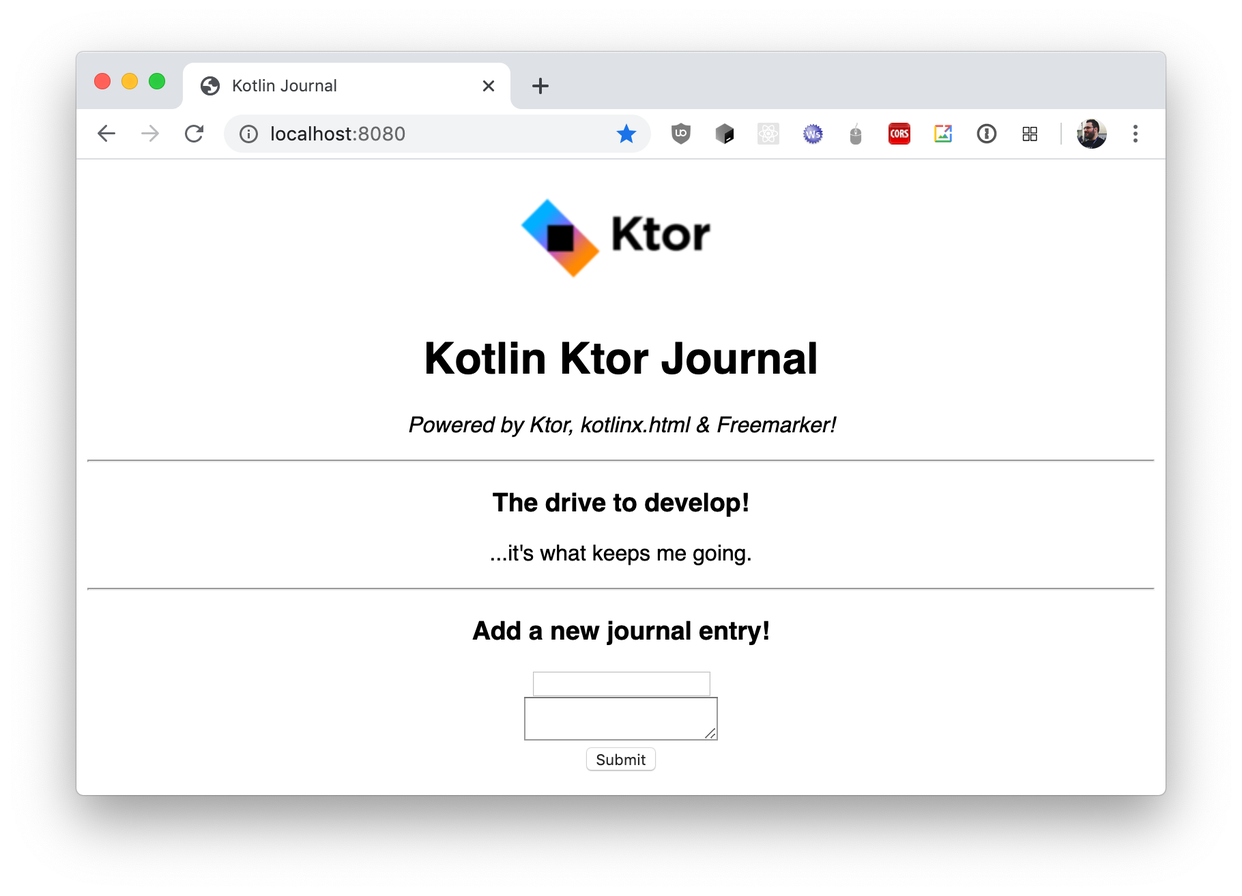
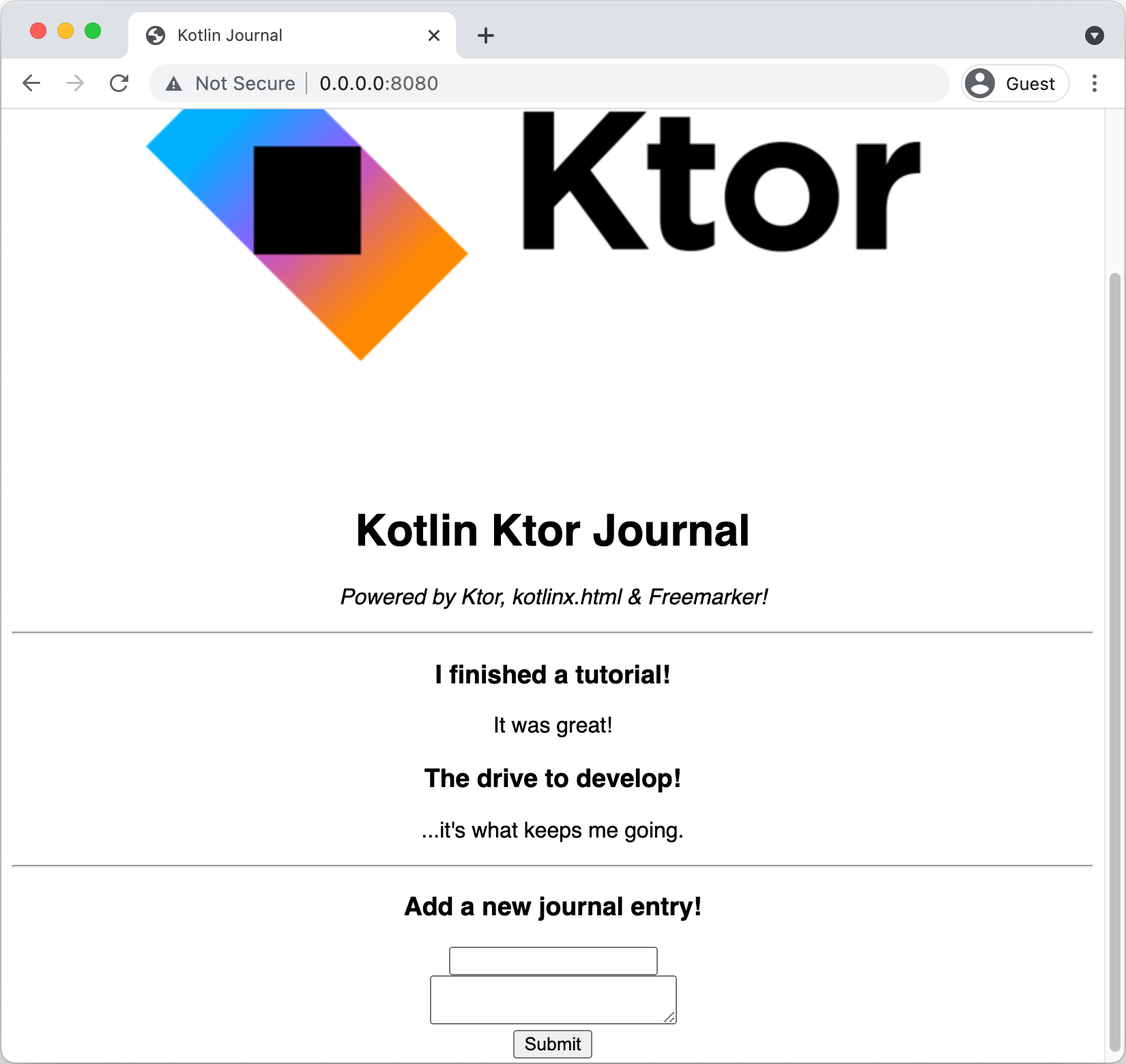
KTOR-2835 update website topic

Changed region(s): [[0.0, 0.0, 1.0, 1.0], [0.34, 0.3744, 0.68, 0.4368]]

diff --git a/topics/creating_interactive_website.md b/topics/creating_interactive_website.md
@@ -8,11 +8,11 @@ Used plugins: Routing, Freemarker, HTML DSL
 </p>
 </microformat>
 
-In this tutorial we're going to create an interactive website. Using the different plugins and integrations provided by Ktor, we will see how to host static content like images and HTML pages. We will see how supported HTML templating engines like [Freemarker](freemarker.md) make it easy to control how data from our application is rendered in the browser. By using [kotlinx.html](html_dsl.md), we'll learn about a domain-specific language that allows us to mix Kotlin code and markup directly, allowing us to write our site's display logic in pure Kotlin.
+In this tutorial, we're going to create an interactive website. Using the different plugins and integrations provided by Ktor, we will see how to host static content like images and HTML pages. We will see how supported HTML templating engines like [Freemarker](freemarker.md) make it easy to control how data from our application is rendered in the browser. By using [kotlinx.html](html_dsl.md), we'll learn about a domain-specific language that allows us to mix Kotlin code and markup directly, allowing us to write our site's display logic in pure Kotlin.
 
-The goal of this tutorial is to write a minimal journal app. We'll start by seeing how Ktor can serve static files and pages, and then move on to dynamically rendering Kotlin objects representing blog entries in a nicely formatted fashion, making use of our template engine. To make things interactive, we will add the ability to submit new entries to our journal directly from the browser – leaving us with a nice way to temporarily store and view our thoughts, for example our opinion on working through this tutorial:
+The goal of this tutorial is to write a minimal journal app. We'll start by seeing how Ktor can serve static files and pages, and then move on to dynamically rendering Kotlin objects representing blog entries in a nicely formatted fashion, making use of our template engine. To make things interactive, we will add the ability to submit new entries to our journal directly from the browser – leaving us with a nice way to temporarily store and view our thoughts, for example, our opinion on working through this tutorial:
 
-![](ktor_journal.png){animated="true" width="434"}
+![](ktor_journal.png){animated="true" width="706"}
 
 ## Prerequisites {id="prerequisites"}
 <include src="lib.xml" include-id="plugin_prerequisites"/>
@@ -86,7 +86,7 @@ The [application.conf](#configurations) configures the entry point of our applic
 ```
 {src="snippets/tutorial-website/src/main/kotlin/com/example/Application.kt" lines="6-11"}
 
-This module in turn calls the following extension functions:
+This module, in turn, calls the following extension functions:
 
 * `configureRouting` is a function defined in `plugins/Routing.kt`, which is currently doesn't do anything:
    ```kotlin
@@ -97,70 +97,56 @@ This module in turn calls the following extension functions:
    ```
   We'll define the routes for our journal in the next chapters.
 
-* `configureTemplating` is a function defined in `plugins/Templating.kt`, which installs and configures the `FreeMarker` plugin:
+* `configureTemplating` is a function defined in `plugins/Templating.kt`, which installs and configures the `Freemarker` plugin:
    ```kotlin
    ```
   {src="snippets/tutorial-website/src/main/kotlin/com/example/plugins/Templating.kt" lines="8-10,12-13"}
 
 
 
-## Static files and pages
+## Static files and pages {id="static_files"}
 
-Before we dive into making a _dynamic_ application, let's start by doing something a bit easier, but probably just as important – let's get Ktor to serve some *static* files.
+Before we dive into making a _dynamic_ application, let's start by doing something a bit easier, but probably just as important – let's get Ktor to serve some *static* files. In the context of our journal, there are a number of things that we probably want to serve as static files – one example being a header image (a logo that identifies our site). 
 
-In the context of our journal, there are a number of things that we probably want to serve as static files – one example being a header image (a logo that identifies our site). Luckily for us, the template repository already has a PNG file included which we can use: `ktor.png` inside the folder `src/main/resources/files`:
+1. Create the `files` folder inside `src/main/resources`.
+2. Download the [ktor_logo.png](https://github.com/ktorio/ktor-documentation/blob/main/codeSnippets/snippets/tutorial-website/src/main/resources/files/ktor_logo.png) image file and add it to the created `files` folder.
+3. To serve static content, we can use a specific routing function already built into Ktor named [static](Serving_Static_Content.md). The function takes two parameters: the route under which the static content should be made available, and a lambda where we can define the location from where the content should be served. In the `plugins/Routing.kt` file, let's change the implementation for `Application.configureRouting()` to look like this:
 
-![](ktor_image_location.png){width="561"}
+   ```kotlin
+   ```
+   {src="snippets/tutorial-website/src/main/kotlin/com/example/plugins/Routing.kt" lines="14-18,48-49"}
+   
+   This instructs Ktor that everything under the URL `/static` should be served using the `files` directory inside `resources`.
 
-For serving static content, we can use a specific routing function already built in to Ktor named [static](Serving_Static_Content.md). The function takes two parameters: the route under which the static content should be made available, and a lambda where we can define the location from where the content should be served. In the file called `Application.kt`, let's change the implementation for `Application.module()` to look like this:
+### Run the application {id="run_app"}
 
-```kotlin
-fun Application.module() {
-    routing {
-        static("/static") {
-            resources("files")
-        }
-    }
-}
-```
+Let's *see* if our application is performing as expected. We can run our application by pressing the **Run** button next to `fun main(...)` in our `Application.kt`: 
 
-This instructs Ktor that everything under the URL `/static` should be served using the `files` directory inside `resources`.
+![Run Server](run-app.png){width="706"}
 
-### Running our application for the first time
+IntelliJ IDEA will start the application, and after a few seconds, we should see the confirmation that the app is running:
 
-_Seeing is believing_ – so lets *see* if our application is performing as expected! We can run our application by pressing the green "play" button next to `fun main(...)` in our `Application.kt`. IntelliJ IDEA will start the application, and after a few seconds, we should see the confirmation that the app is running:
-
-```
+```Bash
 [main] INFO  Application - Responding at http://0.0.0.0:8080
 ```
 
-Let's open [`http://localhost:8080/static/ktor.png`](http://localhost:8080/static/ktor.png) in a browser. We see that Ktor serves the static file:
+Let's open [`http://localhost:8080/static/ktor_logo.png`](http://localhost:8080/static/ktor_logo.png) in a browser. We see that Ktor serves the static file:
 
-![](ktor_logo_in_browser.png)
+![](ktor_logo_in_browser.png){width="706"}
 
-Of course, we are not limited to images – HTML files, or CSS and JavaScript would work just as well. We can take advantage of this fact to add a small "About me" page as a first real part of our journal application – a static page that can contain some information about us, this project, or whatever else we might fancy.
+### Add HTML page {id="html_page"}
+
+Of course, we are not limited to images – HTML files, or CSS and JavaScript would work just as well. We can take advantage of this fact to add a small "About me" page as the first real part of our journal application – a static page that can contain some information about us, this project, or whatever else we might fancy.
 
 To do so, let's create a new file inside `src/main/resources/files/` called `aboutme.html`, and fill it with the following contents:
 
 ```html
-<!DOCTYPE html>
-<html lang="en">
-<head>
-    <title>Kotlin Journal</title>
-</head>
-<body style="text-align: center; font-family: sans-serif">
-<img src="/static/ktor.png" alt="ktor logo">
-<h1>About me</h1>
-<p>Welcome to my static page!</p>
-<p>Feel free to take a look around.</p>
-<p>Or go to the <a href="/">main page</a>.</p>
-</body>
-</html>
 ```
+{src="snippets/tutorial-website/src/main/resources/files/aboutme.html"}
 
 If we re-run the application and navigate to [`http://localhost:8080/static/aboutme.html`](http://localhost:8080/static/aboutme.html), we can see our first page in all its glory. As you can see, we can even reference other static files – like `ktor.png` – inside this HTML.
 
-![](aboutme.png)
+![](aboutme.png){width="706"}
 
 Of course, we could also organize our files in subdirectories inside `files`; Ktor will automatically take care of mapping these paths to the correct URLs.
 
@@ -170,200 +156,122 @@ However, a static page that contains a few paragraphs can hardly be called a jou
 
 
 
-## Home page with templates
+## Home page with templates {id="home_page_templates"}
 
-It's time to build the main page of our journal which is in charge of displaying multiple journal entries. We will create this page with the help of a *template engine*. Template engines are quite common in web development, and Ktor supports a [variety of them](Working_with_views.md). In our case we're going to choose [FreeMarker](https://freemarker.apache.org/).
+It's time to build the main page of our journal, which is in charge of displaying multiple journal entries. We will create this page with the help of a *template engine*. Template engines are quite common in web development, and Ktor supports a [variety of them](Working_with_views.md). In our case, we're going to choose [Freemarker](https://freemarker.apache.org/).
 
-### Adding FreeMarker as a Ktor plugin
+### Adjust Freemarker configuration {id="freemarker_config"}
 
-[Plugins](Plugins.md) are a mechanism that Ktor provides to enable support for certain functionality, such as encoding, compression, logging, authentication, among others. While the implementation details of Ktor plugins (acting as interceptors / middleware providing extra functionality) aren't relevant for this tutorial, we will use this mechanism to `install` the `FreeMarker` plugin, by adding the following lines to the top of our `Application.module()` definition in the `Application.kt` file:
-
-```kotlin
-fun Application.module() {
-    install(FreeMarker) {
-        templateLoader = ClassTemplateLoader(this::class.java.classLoader, "templates")
-        outputFormat = HTMLOutputFormat.INSTANCE
-    }
-    routing {
-        // Our existing code . . .
-    }
-}
-```
-In the configuration block for the `FreeMarker` plugin, we're passing two parameters:
-
-- The `templateLoader` setting tells our application that FreeMarker templates will be located in the `templates` directory inside our application `resources`: 
-  ![Template](templates_location.png){width="566"}
-- The `outputFormat` setting helps convert control characters provided by the user to their corresponding HTML entities. This ensures that when one of our journal entries contains a String like `<b>Hello</b>`, it is actually printed as `<b>Hello</b>`, not **Hello**. This so-called [escaping](https://freemarker.apache.org/docs/dgui_misc_autoescaping.html) is an essential step in preventing [XSS attacks](https://owasp.org/www-community/attacks/xss/).
-
-Now that Ktor knows where to find our FreeMarker templates, we can start writing the template for the journal main page.
-
-### Writing the journal template
-
-Our journal main page should contain everything we need for a basic overview of our journal: a title, header image, a list of journal entries, and a form for adding new journal entries. To define this page layout, we use the FreeMarker Template Language (`ftl`), which contains our HTML source as well as FreeMarker variable definitions and instructions on how to use the variables in the context of the page.
-
-Let's create a file called `index.ftl` in the `resources/templates` directory and fill it with the following content:
-
-```xml
-<#-- @ftlvariable name="entries" type="kotlin.collections.List<com.jetbrains.handson.website.BlogEntry>" -->
-<!DOCTYPE html>
-<html lang="en">
-<head>
-    <title>Kotlin Journal</title>
-</head>
-<body style="text-align: center; font-family: sans-serif">
-<img src="/static/ktor.png">
-<h1>Kotlin Ktor Journal </h1>
-<p><i>Powered by Ktor, kotlinx.html & Freemarker!</i></p>
-<hr>
-<#list entries as item>
-    <div>
-        <h3>${item.headline}</h3>
-        <p>${item.body}</p>
-    </div>
-</#list>
-<hr>
-<div>
-    <h3>Add a new journal entry!</h3>
-    <form action="/submit" method="post">
-        <input type="text" name="headline">
-        <br>
-        <textarea name="body"></textarea>
-        <br>
-        <input type="submit">
-    </form>
-</div>
-</body>
-</html>
-```
-
-As you can see, we are using FTL syntax to define, access and iterate over variables. The variable `entries` which we loop over has the type `kotlin.collections.List<com.jetbrains.handson.website.BlogEntry>`. This is simply the fully-qualified name of a Kotlin `List<BlogEntry>`. However, we haven't created the `BlogEntry` class yet, but now that we are referencing it, it seems like a good time to fix that!
-
-If you'd like to learn more about FreeMarker's syntax, check out [their official documentation](https://freemarker.apache.org/docs/dgui_quickstart.html).
-
-### Defining a model for the journal entries
-
-As defined by our usage in the FreeMarker template, the `BlogEntry` class needs two attributes: a `headline` and a `body`, both of type `String`. Let's create a file named `BlogEntry.kt` next to `Application.kt`, and fill it with the corresponding Kotlin data class, which can then be injected into the template:
+The Ktor plugin for IntelliJ IDEA already [generated code](#source_code) for the Freemarker plugin:
 
 ```kotlin
-package com.jetbrains.handson.website
-
-data class BlogEntry(val headline: String, val body: String)
 ```
+{src="snippets/tutorial-website/src/main/kotlin/com/example/plugins/Templating.kt" lines="8-10,12-13"}
+
+The `templateLoader` setting tells our application that Freemarker templates will be located in the `templates` directory. Let's also add the `outputFormat` as follows:
+
+```kotlin
+```
+{src="snippets/tutorial-website/src/main/kotlin/com/example/plugins/Templating.kt" lines="8-13"}
+
+The `outputFormat` setting helps convert control characters provided by the user to their corresponding HTML entities. This ensures that when one of our journal entries contains a String like `<b>Hello</b>`, it is actually printed as `<b>Hello</b>`, not **Hello**. This so-called [escaping](https://freemarker.apache.org/docs/dgui_misc_autoescaping.html) is an essential step in preventing [XSS attacks](https://owasp.org/www-community/attacks/xss/).
+
+
+### Write the journal template {id="journal_template"}
+
+Our journal main page should contain everything we need for a basic overview of our journal: a title, header image, a list of journal entries, and a form for adding new journal entries. To define this page layout, we use the Freemarker Template Language (`ftl`), which contains our HTML source as well as Freemarker variable definitions and instructions on how to use the variables in the context of the page.
+
+Let's create a new `templates` directory inside `resources`. Inside this directory, we'll create a file called `index.ftl` and fill it with the following content:
+
+```html
+```
+{src="snippets/tutorial-website/src/main/resources/templates/index.ftl"}
+
+As you can see, we are using FTL syntax to define, access, and iterate over variables. The variable `entries` which we loop over has the type `kotlin.collections.List<com.example.BlogEntry>`. This is simply the fully-qualified name of a Kotlin `List<BlogEntry>`. However, we haven't created the `BlogEntry` class yet, but now that we are referencing it, it seems like a good time to fix that!
+
+> If you'd like to learn more about Freemarker's syntax, check out [their official documentation](https://freemarker.apache.org/docs/dgui_quickstart.html).
+
+### Define a model for the journal entries {id="define_model"}
+
+As defined by our usage in the Freemarker template, the `BlogEntry` class needs two attributes: a `headline` and a `body`, both of type `String`. Let's create a file named `BlogEntry.kt` next to `Application.kt`, and fill it with the corresponding Kotlin data class, which can then be injected into the template:
+
+```kotlin
+```
+{src="snippets/tutorial-website/src/main/kotlin/com/example/BlogEntry.kt" lines="1-3"}
 
 It would also make sense if we defined a temporary storage for our entries. We can do this in the same file as a top-level declaration:
 
 ```kotlin
-val blogEntries = mutableListOf(BlogEntry(
-    "The drive to develop!",
-    "...it's what keeps me going."
-))
 ```
+{src="snippets/tutorial-website/src/main/kotlin/com/example/BlogEntry.kt" lines="5-8"}
 
 At this point, we have defined a template and the model that will be used for rendering it. Now, Ktor just needs to pass our stored journal entries and serve the resulting page.
 
-### Serving the templated content
+### Serve the templated content {id="serve_template"}
 
-The overview page we just templated is the center point of our application. So, it would make sense to make it available under the `/` route. Let's add a route for it to the `routing` block inside our `Application.module()`:
+The overview page we just templated is the center point of our application. So, it would make sense to make it available under the `/` route. Let's add a route for it to the `routing` block inside our `Application.configureRouting()` (the `plugins/Routing.kt` file):
 
 
 ```kotlin
-get("/") {
-    call.respond(FreeMarkerContent("index.ftl", mapOf("entries" to blogEntries), ""))
-}
 ```
+{src="snippets/tutorial-website/src/main/kotlin/com/example/plugins/Routing.kt" lines="19-21"}
 
 We can now run the application. Opening [`http://localhost:8080/`](http://localhost:8080/) in a browser, we should see our header image, headline and subtitle, and a list of journal entries (well, just one for now) alongside a form for submitting new entries:
 
-![FreeMarker Browser Output](main_page.png)
+![Freemarker Browser Output](main_page.png){width="706"}
 
-Looks like our display logic is working just fine! Now, we only need to make the "Submit" button work, and we'll be able to view and add new entries for our journal!
+It looks like our display logic is working just fine! Now, we only need to make the "Submit" button work, and we'll be able to view and add new entries for our journal!
 
 
-## Form submission and kx.html
+## Submit a form {id="submit_form"}
 
 The `<form>` we defined in the previous chapter sends a `POST` request to `/submit` containing the `headline` and `body` of our new journal entry. Let's make our application correctly consume this information and submission of new journal entries! We define a handler for the `/submit` route inside our `Application.module()`'s `routing` block like this:
 
 ```kotlin
-post("/submit") {
-    val params = call.receiveParameters()
-    val headline = params["headline"] ?: return@post call.respond(HttpStatusCode.BadRequest)
-    val body = params["body"] ?: return@post call.respond(HttpStatusCode.BadRequest)
-    val newEntry = BlogEntry(headline, body)
-    blogEntries.add(0, newEntry)
-    // TODO: send a status page to the user
-}
 ```
+{src="snippets/tutorial-website/src/main/kotlin/com/example/plugins/Routing.kt" lines="22-27,47"}
 
 [receiveParameters](requests.md#form_parameters) allows us to parse form data (for both `urlencoded` and `multipart`). We then extract the `headline` and `body` fields from the form, ensuring they are both not null, and create a new `BlogEntry` object from this information, adding it to the beginning of our `blogEntries` list.
 
 For more detailed information on the fancy features that are available in the context of Ktor's request model, check out the [](requests.md) topic.
 
-To show the user that the submission was successful, we still want to send back a bit of HTML. We could re-use our knowledge and create a FreeMarker template for this "Success" page as well – but to cover some more Ktor functionality, we will try an alternative approach instead. When we autocomplete on the `call` object, we can see that Ktor allows us to respond to requests using a variety of functions:
+To show the user that the submission was successful, we still want to send back a bit of HTML. We could re-use our knowledge and create a Freemarker template for this "Success" page as well – but to cover some more Ktor functionality, we will try an alternative approach instead. When we autocomplete on the `call` object, we can see that Ktor allows us to respond to requests using a variety of functions:
 
-![Respond](respond.png){width="638"}
+![Respond](respond.png){width="658"}
 
-Amongst these is `call.respondHtml`. This function allows us to craft our HTML response using Kotlin syntax, thanks to Ktor's integration with [kotlinx.html](https://github.com/Kotlin/kotlinx.html) (a [DSL](https://kotlinlang.org/docs/reference/type-safe-builders.html) designed for seamlessly combining Kotlin code and HTML-like tags).
+Amongst these is `call.respondHtml`. This function allows us to craft our HTML response using Kotlin syntax, thanks to Ktor's integration with [kotlinx.html](html_dsl.md) (a [DSL](https://kotlinlang.org/docs/type-safe-builders.html) designed for seamlessly combining Kotlin code and HTML-like tags).
 
 At the bottom of the `post("/submit")` handler block, let's add the following code:
 
 ```kotlin
-call.respondHtml {
-    body {
-        h1 {
-            +"Thanks for submitting your entry!"
-        }
-        p {
-            +"We've submitted your new entry titled "
-            b {
-                +newEntry.headline
-            }
-        }
-        p {
-            +"You have submitted a total of ${blogEntries.count()} articles!"
-        }
-        a("/") {
-            +"Go back"
-        }
-    }
-}
 ```
+{src="snippets/tutorial-website/src/main/kotlin/com/example/plugins/Routing.kt" lines="28-46"}
 
-Notice how this code combines Kotlin-specific logic (like `count`ing the entries, or using string interpolation) with HTML-like syntax!
+Notice how this code combines Kotlin-specific logic (like `count`ing the entries or using string interpolation) with HTML-like syntax!
 
 To test the route, let's re-run our application, navigate to [`http://localhost:8080/`](http://localhost:8080/), and submit a new entry. If everything has gone according to play, we'll now see the HTML page, courtesy of kotlinx.html!
 
-![Static HTML](submit.png)
+![Static HTML](submit.png){width="706"}
 
-### We're done!
+## We're done! {id="done"}
 
 It's time to pat ourselves on the back – we've put together a nice little journal application, and have learned about many topics in the meantime. From static files to templating, from basic routing to kotlinx.html, we've covered a lot of ground.
 
-![](ktor_journal.png){animated="true" width="434"}
+![](ktor_journal.png){animated="true" width="706"}
 
-This concludes the guided part of this tutorial. We have included the final state of the journal application in the GitHub repository on the [`final` branch](https://github.com/ktorio/ktor-website-sample/tree/final). But of course, your journey doesn't have to stop here. Check out the _What's next_ section to get an idea of how you could expand the application, and where to go if you need help in your endeavors!
+This concludes the guided part of this tutorial. We have included the final state of the journal application in the [codeSnippets](https://github.com/ktorio/ktor-documentation/tree/main/codeSnippets) project: [tutorial-websi](https://github.com/ktorio/ktor-documentation/tree/main/codeSnippets/snippets/tutorial-website). But of course, your journey doesn't have to stop here. Check out the _What's next_ section to get an idea of how you could expand the application, and where to go if you need help in your endeavors!
 
 
-## What's next
+## What's next {id="whats_next"}
 
-At this point, you should have gotten a basic idea of how to serve static files with Ktor and how the integration of plugins such as FreeMarker or kotlinx.html can enable you to write basic applications that can even react to user input.
+At this point, you should have gotten a basic idea of how to serve static files with Ktor and how the integration of plugins such as Freemarker or kotlinx.html can enable you to write basic applications that can even react to user input.
 
-### Feature requests for the journal
+### Feature requests {id="feature_requests"}
 
-At this point, our journal application is still rather barebones, so of course it might be a fun challenge to add more features to the project, and learn even more about building interactive sites with Kotlin and Ktor. To get you started, here's a few ideas of how the application could still be improved, in no particular order:
+At this point, our journal application is still rather barebones, so of course, it might be a fun challenge to add more features to the project and learn even more about building interactive sites with Kotlin and Ktor. To get you started, here are a few ideas of how the application could still be improved, in no particular order:
 
-- **Make it consistent!** You would usually not mix FreeMarker and kotlinx.html – we've taken some liberty here to explore more than one way of structuring your application. Consider powering your whole journal with kotlinx.html or FreeMarker, and make it consistent!
-- **Authentication!** Our current version of the journal allows all visitors to post content to our journal. We could use [Ktor's authentication plugins](authentication.md) to ensure that only select users can post to the journal, while keeping read access open to everyone.
+- **Make it consistent!** You would usually not mix Freemarker and kotlinx.html – we've taken some liberty here to explore more than one way of structuring your application. Consider powering your whole journal with kotlinx.html or Freemarker, and make it consistent!
+- **Authentication!** Our current version of the journal allows all visitors to post content to our journal. We could use [Ktor's authentication plugins](authentication.md) to ensure that only select users can post to the journal while keeping read access open to everyone.
 - **Persistence!** Currently, all our journal entries vanish when we stop our application, as we are only storing them in a variable. You could try integrating your application with a database like PostgreSQL or MongoDB, using one of the plenty projects that allow database access from Kotlin, like [Exposed](https://github.com/JetBrains/Exposed) or [KMongo](https://litote.org/kmongo/).
-- **Make it look nicer!** The stylesheets for the journal are currently rudimentary at best. Consider creating your own style sheet, and serving it as a static `.css` file from Ktor!
+- **Make it look nicer!** The stylesheets for the journal are currently rudimentary at best. Consider creating your own style sheet and serving it as a static `.css` file from Ktor!
 - **Organize your routes!** As the complexity of our application increases, so does the number of routes we try to support. For bigger applications, we usually want to add structure to our routing – like separating routes out into separate files. If you'd like to learn about different ways to organize your routes with Ktor, check out the [](Routing_in_Ktor.md) help topic.
-
-### Learning more about Ktor
-
-On this page, you will find a set of tutorials that also focus more on specific parts of Ktor. For in-depth information about the framework, including further demo projects, check out [ktor.io](https://ktor.io/).
-
-### Community, help and troubleshooting
-
-To find more information about Ktor, check out the official website. If you run into trouble, check out the [Ktor issue tracker](https://youtrack.jetbrains.com/issues/KTOR) – and if you can't find your problem, don't hesitate to file a new issue.
-
-You can also join the official [Kotlin Slack](https://surveys.jetbrains.com/s3/kotlin-slack-sign-up). We have channels for `#ktor` and more available, and a helpful community that supports each other for Kotlin related problems.
-

diff --git a/topics/creating_http_apis.md b/topics/creating_http_apis.md
@@ -89,7 +89,7 @@ The [application.conf](#configurations) configures the entry point of our applic
 ```
 {src="snippets/tutorial-http-api/src/main/kotlin/com/example/Application.kt" lines="6-11"}
 
-This module in turn calls the following extension functions:
+This module, in turn, calls the following extension functions:
 
 * `configureRouting` is a function defined in `plugins/Routing.kt`, which is currently doesn't do anything:
    ```kotlin
